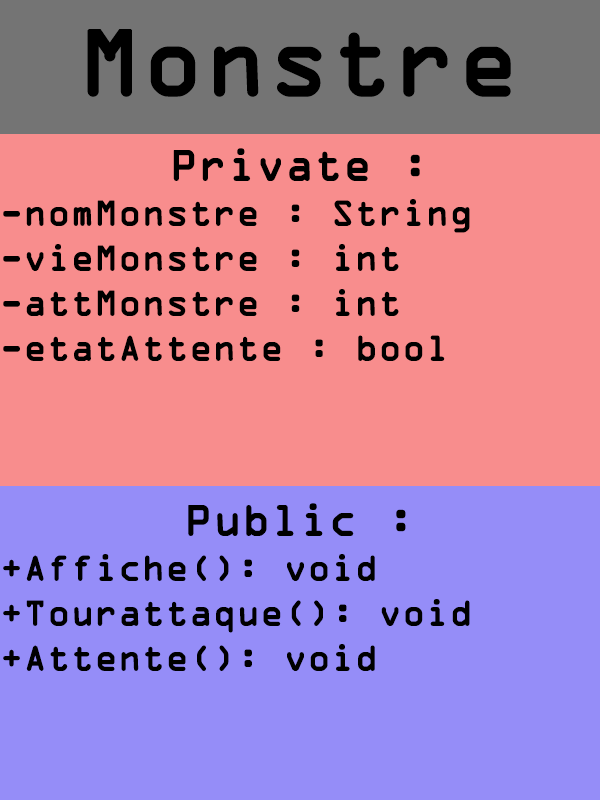
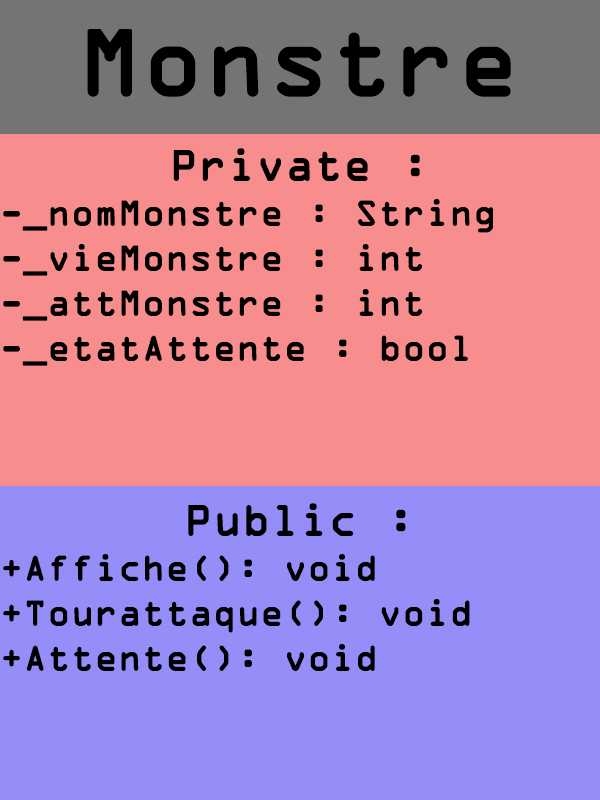
UML v2 + creation fichier Monstre

Changed region(s): [[0.03, 0.25, 0.84, 0.4688], [0.72, 0.4062, 0.78, 0.4688]]

diff --git a/Monstre.h b/Monstre.h
@@ -1,0 +1,13 @@
+#include <string>
+#include <iostring>
+
+classe Monstre{
+    private:
+
+
+
+    public:
+
+
+    
+}
